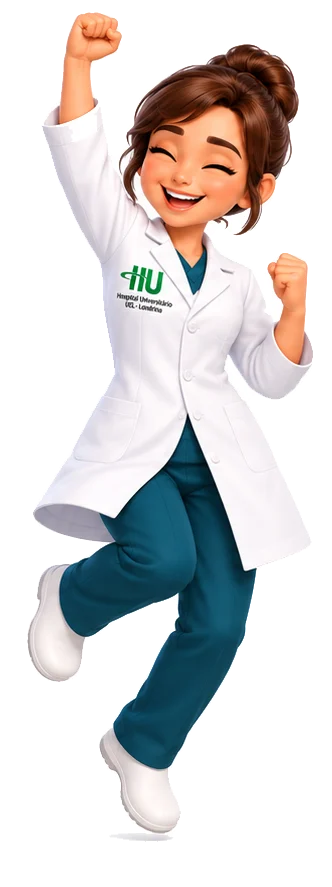
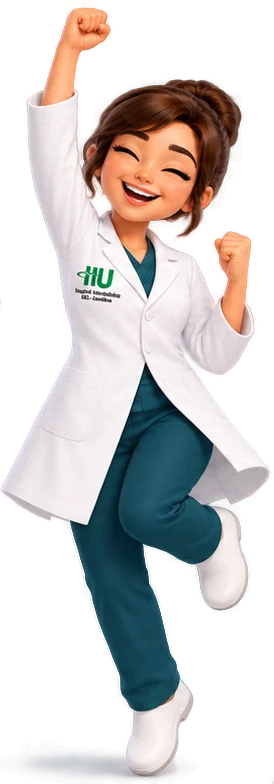
Artes finais da Nery e medalhas (0.11.1)
- Seis poses da Nery com fundo transparente de origem.
- Conjunto completo das 7 medalhas ilustradas, que substituem as
  medalhas vetoriais.

diff --git a/ACOMPANHAMENTO_IMPLEMENTACAO.md b/ACOMPANHAMENTO_IMPLEMENTACAO.md
@@ -140,3 +140,9 @@ Implementação concluída para homologação interna (ver `IMPLEMENTATION_REPOR
 - Jogo: tentativa atual e quanto ela vale ficam visíveis; dica de arrastar só nos dois primeiros itens; explicação mostra o par item → destino.
 - Tela inicial com uma ação principal e atalhos compactos; tablet em pé com layout empilhado; nomes longos dos coletores sem corte no celular; configurações com chaves liga/desliga; medalhas num único estilo até o conjunto de artes estar completo.
 - Verificação: 53 testes unitários e 11 fluxos de navegador; telas revisadas em 1280×800, 800×1280 e 390×844.
+
+### 17. Artes finais da Nery e medalhas — concluída (28/09/2026)
+- Seis poses da Nery substituídas por versões com fundo transparente de origem; a pose de aceno (wave) continua a anterior, com recorte automático.
+- Conjunto completo de 7 medalhas ilustradas; o jogo passou a usar as medalhas ilustradas no lugar das vetoriais.
+- `docs/art/Sem Título-13.png` é cópia idêntica de `nery-explain-v1.png` e é ignorada pelo pipeline.
+- Verificação: testes unitários, fluxos de navegador e telas de missão, explicação e resultado revisadas.

diff --git a/README.md b/README.md
@@ -1,6 +1,6 @@
 # Destino Certo - Resíduos HU
 
-Jogo educativo para tablet sobre segregação e acondicionamento de resíduos no HU-UEL. Versão de homologação 0.11.0, publicada em https://edyramos.github.io/destino-certo-residuos-hu/.
+Jogo educativo para tablet sobre segregação e acondicionamento de resíduos no HU-UEL. Versão de homologação 0.11.1, publicada em https://edyramos.github.io/destino-certo-residuos-hu/.
 
 ## Conceito
 O participante recebe itens do cotidiano hospitalar com a condição de uso descrita e deve encaminhá-los ao destino correto. Cada pergunta admite três tentativas (100, 60 e 30 pontos); antes da revelação há uma dica, e depois do acerto ou do terceiro erro aparecem o destino e a explicação. A carreira tem três fases; é preciso acertar 6 de 10 para avançar. A prática por fase não altera a carreira nem o ranking local.

diff --git a/CHANGELOG.md b/CHANGELOG.md
@@ -1,5 +1,9 @@
 # Changelog
 
+## 0.11.1 — artes finais da Nery e medalhas (28/09/2026)
+- poses da Nery com fundo transparente de origem (apresentação, comemoração, dica, incentivo, explicação e troféu);
+- conjunto completo das 7 medalhas ilustradas (capítulos 1 a 3, carreira completa, fase perfeita, sequência e aprender com o erro).
+
 ## 0.11.0 — revisão de layout, UX e UI (28/09/2026)
 - Nery sem partes apagadas: recorte de fundo que preserva o jaleco branco;
 - ícones do cabeçalho refeitos (configurações e música com estado ligado/desligado);
